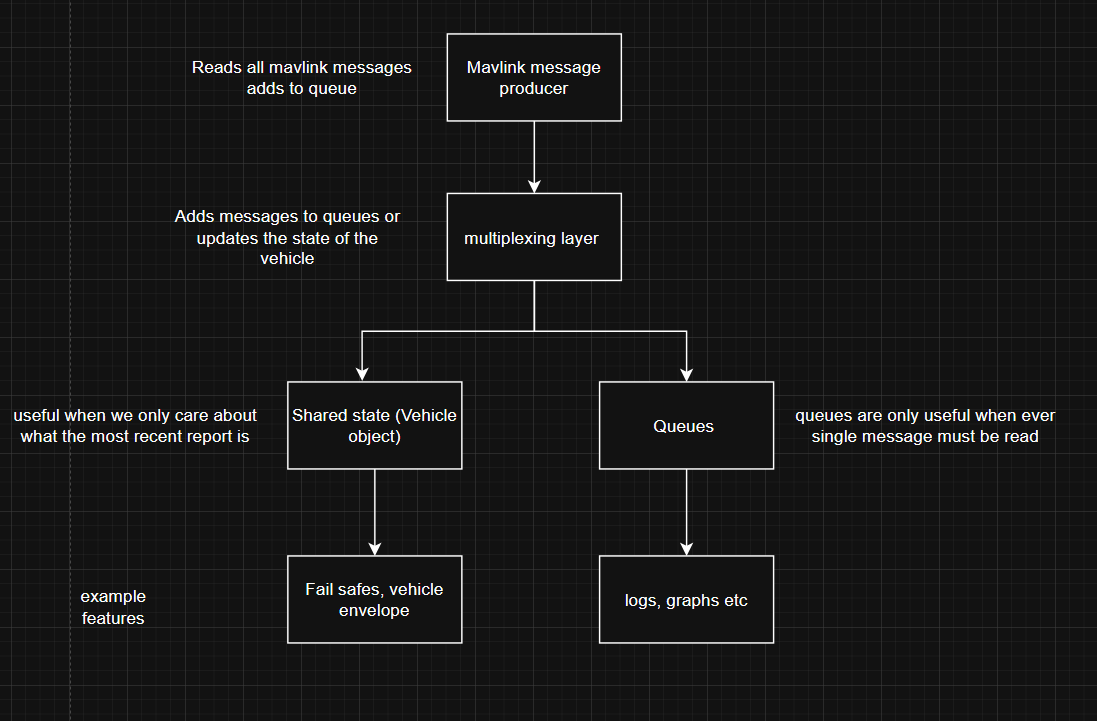
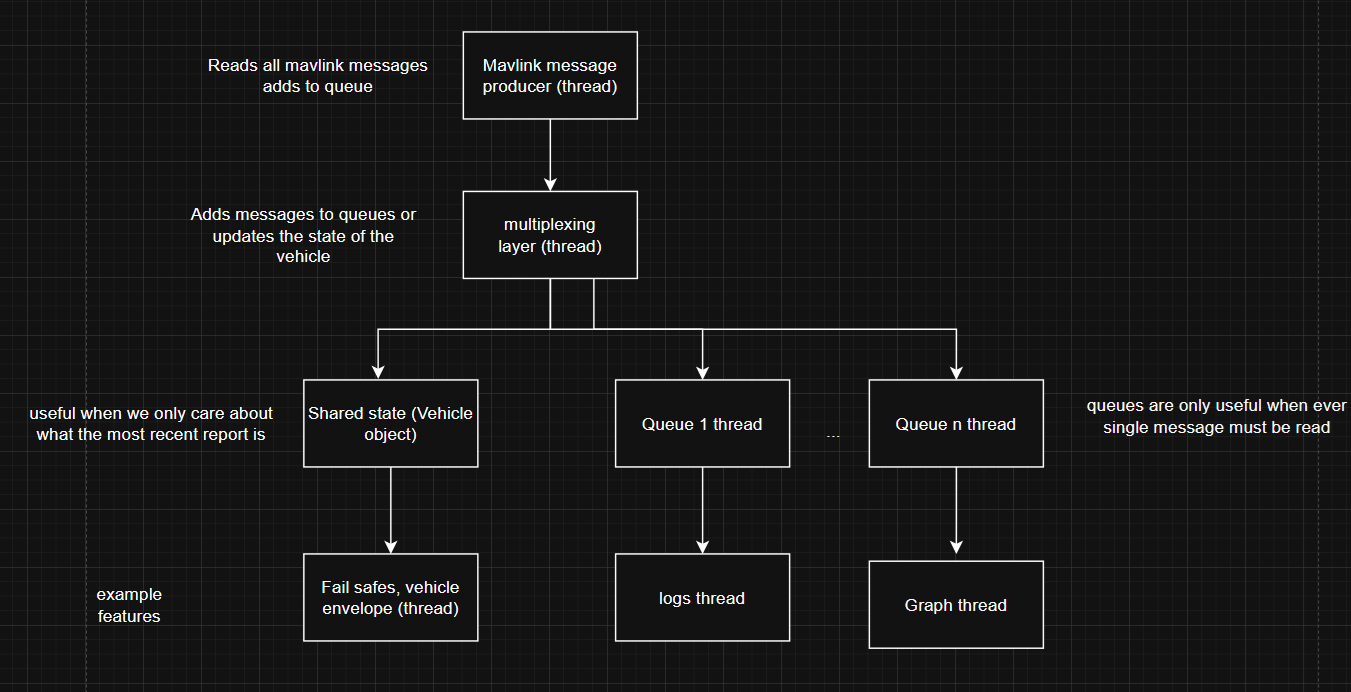
Finish up investigation and document findings

diff --git a/Investigations/VehicleReportDesign.md b/Investigations/VehicleReportDesign.md
@@ -64,3 +64,21 @@
     - Little experience
     - Debugging
     - Thread safety
+
+## Path forward
+- The async producer/consumer pattern provides the best performance, so to meet speed goals, this is the design we will go after.
+- Producer thread: Vehicle interfaces that stream telemetry into queues.
+- Multiplex thread: Take producer thread and add to various consumer queues and also update the shared state
+- Consumer threads:
+  - Failsafe detector
+  - Logger
+  - Visualization engine
+  - Shared State: Maintains the most recent telemetry for quick access.
+
+- This design will allow the system to:
+  - Stay performant with fresh telemetry.
+  - Allow for multiple vehicles in the future.
+  - Keep logs and graphs synchronized with state of drone.
+  - Provide a clean and extendable architecture for future features.
+
+- This meshes well with our web sockets as a queue will be made for the websocket to send to the react
